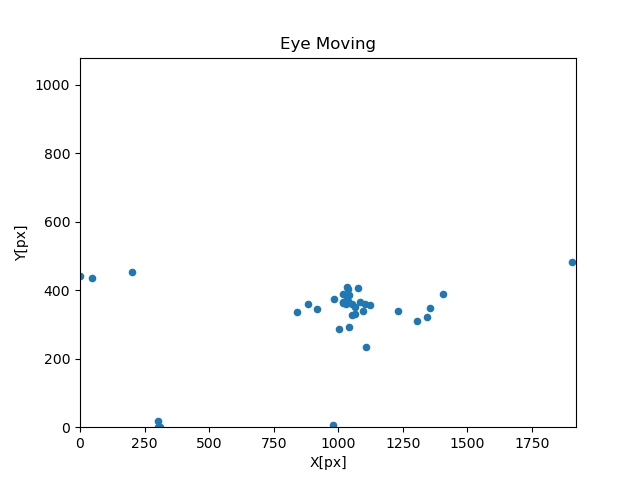
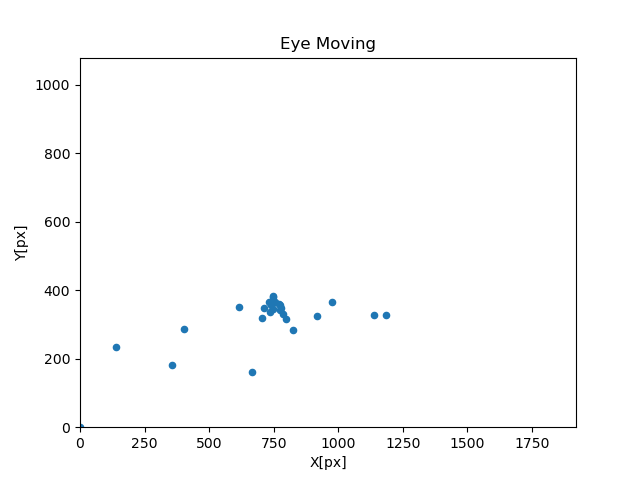
古寺完成版

diff --git a/cgi-bin/feedback.py b/cgi-bin/feedback.py
@@ -1,10 +1,13 @@
 import pandas as pd
 import matplotlib as mpl
 import matplotlib.pyplot as plt
+import sys
+import io
+sys.stdout = io.TextIOWrapper(sys.stdout.buffer,encoding = 'utf-8')
 
 # CSVファイルの読込
-log = pd.read_csv("data/kodera-log1.csv", sep=",") # 古寺 1回目
-#log = pd.read_csv("data/kodera-log2.csv", sep=",") # 古寺 2回目
+#log = pd.read_csv("data/kodera-log1.csv", sep=",") # 古寺 1回目
+log = pd.read_csv("data/kodera-log2.csv", sep=",") # 古寺 2回目
 #log = pd.read_csv("data/imai-log1.csv", sep=",")  # 今井 1回目
 #log = pd.read_csv("data/imai-log2.csv", sep=",") # 今井 2回目
 
@@ -13,7 +16,7 @@ pd.set_option("display.max_rows", None)
 
 # 視線データと速度データの抽出
 def getData(start_x, end_x):
-    place = log[(log.x >= start_x) &(log.x <= end_x)]
+    place = log[(log.x >= start_x) & (log.x <= end_x)]
     eye_data = place.loc[:, ["focus_x", "focus_y"]]
     speed_data = place.loc[:, ["x", "speed"]]
     focus_data = place.loc[:, ["x", "focus"]]
@@ -44,8 +47,17 @@ def makeSpeedGraph(speed_data, file_name):
     plt.savefig("fig/" + file_name)
     plt.close("all")
 
+eye1 = 0
+eye2 = 0
+s1 = 0
+s2 = 0
+s3 = 0
+sum = 0
 # 統計量の表示
-def showStat(eye_data, speed_data):
+def showStat1(eye_data, speed_data):
+    global eye1
+    global s1
+    global sum
 
     # 視線統計量
     eye_mean = eye_data.mean()
@@ -61,6 +73,19 @@ def showStat(eye_data, speed_data):
     print(f"<tr><th>最大値<th> <td>X:{round(eye_max[0], 2)}[px] Y:{round(eye_max[1], 2)}[px]</td></tr>")
     print(f"<tr><th>最小値<th> <td>X:{round(eye_min[0], 2)}[px] Y:{round(eye_min[1], 2)}[px]</td></tr>")
     print("</table>")
+    print("<h4>評価 コメント</h4>")
+    if eye_max[0] >= 1420 and eye_min[0] <= 500 :   #左右を確認した
+        eye1 = 8
+        print("左右確認はよくできていました。")
+    elif eye_max[0] >= 1420 or eye_min[0] <= 500:   #左右どちらかを確認した
+        eye1 = 5
+        print("もう少し左右を確認しましょう。")
+    else:                                           #左右どちらも確認していない
+        eye1 = 0
+        print("もっと左右を確認しましょう。")
+
+
+    sum = sum + eye1
 
     # 速度統計量
     speed_mean = speed_data.mean()[1]
@@ -75,11 +100,107 @@ def showStat(eye_data, speed_data):
     print(f"<tr><th>最大値<th> <td>{round(speed_max, 2)}[km/h]</td></tr>")
     print(f"<tr><th>最小値<th> <td>{round(speed_min, 2)}[km/h]</td></tr>")
     print("</table>")
-
     print("</div>")
+    print("<h4>評価 コメント</h4>")
+    if speed_mean <= 20:
+        s1 = 8
+        print("徐行ができていました。")
+    elif speed_mean <= 30:
+        s1 = 5
+        print("もう少し速度を落としましょう。")
+    else:
+        s1 = 0
+        print("もっと速度を落としましょう。")
+
+    sum = sum + s1
+
+def showStat2(speed_data):
+    global s2
+    global sum
+    # 速度統計量
+    speed_mean = speed_data.mean()[1]
+    speed_std = speed_data.std()[1]
+    speed_max = speed_data.max()[1]
+    speed_min = speed_data.min()[1]
+
+    print("<h4>速度 統計量</h4>")
+    print("<table border='1' style='border-collapse: collapse'>")
+    print(f"<tr><th>平均<th> <td>{round(speed_mean, 2)}[km/h]</td></tr>")
+    print(f"<tr><th>標準偏差<th> <td>{round(speed_std, 2)}[km/h]</td></tr>")
+    print(f"<tr><th>最大値<th> <td>{round(speed_max, 2)}[km/h]</td></tr>")
+    print(f"<tr><th>最小値<th> <td>{round(speed_min, 2)}[km/h]</td></tr>")
+    print("</table>")
+    print("</div>")
+    print("<h4>評価 コメント</h4>")
+    if speed_mean <= 20:
+        s2 = 8
+        print("よくできていました。")
+    elif speed_mean <= 30:
+        s2 = 5
+        print("もう少し速度を落としましょう。")
+    else:
+        s2 = 0
+        print("もっと速度を落としましょう。")
+
+    sum = sum + s2
+
+def showStat3(eye_data, speed_data):
+    global eye2
+    global s3
+    global sum
+    # 視線統計量
+    eye_mean = eye_data.mean()
+    eye_std = eye_data.std()
+    eye_max = eye_data.max()
+    eye_min = eye_data.min()
+
+    print("<div>")
+    print("<h4>視線 統計量</h4>")
+    print("<table border='1' style='border-collapse: collapse'>")
+    print(f"<tr><th>平均<th> <td>X:{round(eye_mean[0], 2)}[px] Y:{round(eye_mean[1], 2)}[px]</td></tr>")
+    print(f"<tr><th>標準偏差<th> <td>X:{round(eye_std[0], 2)}[px] Y:{round(eye_std[1], 2)}[px]</td></tr>")
+    print(f"<tr><th>最大値<th> <td>X:{round(eye_max[0], 2)}[px] Y:{round(eye_max[1], 2)}[px]</td></tr>")
+    print(f"<tr><th>最小値<th> <td>X:{round(eye_min[0], 2)}[px] Y:{round(eye_min[1], 2)}[px]</td></tr>")
+    print("</table>")
+    print("<h4>評価 コメント</h4>")
+    if eye_max[0] >= 1420 and eye_min[0] <= 500 :   #左右を確認した
+        eye2 = 8
+        print("よくできていました。")
+    elif eye_max[0] >= 1420 and eye_min[0] <= 500 : #左右どちらかを確認した
+        eye2 = 5
+        print("もう少し左右を確認しましょう。")
+    else:                                           #左右を確認していない
+        eye2 = 0
+        print("もっと左右を確認しましょう。")
+
+    sum = sum + eye2
+
+    # 速度統計量
+    speed_mean = speed_data.mean()[1]
+    speed_std = speed_data.std()[1]
+    speed_max = speed_data.max()[1]
+    speed_min = speed_data.min()[1]
+
+    print("<h4>速度 統計量</h4>")
+    print("<table border='1' style='border-collapse: collapse'>")
+    print(f"<tr><th>平均<th> <td>{round(speed_mean, 2)}[km/h]</td></tr>")
+    print(f"<tr><th>標準偏差<th> <td>{round(speed_std, 2)}[km/h]</td></tr>")
+    print(f"<tr><th>最大値<th> <td>{round(speed_max, 2)}[km/h]</td></tr>")
+    print(f"<tr><th>最小値<th> <td>{round(speed_min, 2)}[km/h]</td></tr>")
+    print("</table>")
+    print("</div>")
+    print("<h4>評価 コメント</h4>")
+    if speed_min == 0:
+        s3 = 10
+        print("一時停止が出来ていました。")
+    else:
+        s3 = 0
+        print("一時停止が出来ていませんでした。")
+
+    sum = sum + s3
 
 # グラフの描画
-def plotGraph(file_name1, file_name2):
+def plotGraph1(file_name1, file_name2):
     print("<div>")
     print("<table>")
     print("<tr>")
@@ -87,6 +208,9 @@ def plotGraph(file_name1, file_name2):
     print(f"<td><img src='../fig/{file_name2}'></td>")
     print("</tr>")
     print("</table>")
+
+def plotGraph2(file_name1):
+    print(f"<img src='../fig/{file_name1}'>")
 
 print ("Content-type:text/html\n\n")
 print("<!DOCTYPE html>")
@@ -107,25 +231,85 @@ distance = 50
 eye_data, speed_data, focus_data = getData(target_x - distance, target_x + distance)
 makeEyeGraph(eye_data, "eye-1.png")
 makeSpeedGraph(speed_data, "speed-1.png")
-showStat(eye_data, speed_data)
-plotGraph("eye-1.png", "speed-1.png")
+showStat1(eye_data, speed_data)
+plotGraph1("eye-1.png", "speed-1.png")
 
 #print(eye_data.to_html())
 #print(focus_data.to_html())
 
-# 第２交差点
-print("<h2>第２交差点</h2>")
+# トラック
+print("<h2>トラック</h2>")
 target_x = 7160
 distance = 50
 eye_data, speed_data, focus_data = getData(target_x - distance, target_x + distance)
-makeEyeGraph(eye_data, "eye-2.png")
 makeSpeedGraph(speed_data, "speed-2.png")
-showStat(eye_data, speed_data)
-plotGraph("eye-2.png", "speed-2.png")
+showStat2(speed_data)
+plotGraph2("speed-2.png")
 
+# 第２交差点
+print("<h2>第2交差点</h2>")
+target_x = 7300
+distance = 50
+eye_data, speed_data, focus_data = getData(target_x - distance, target_x + distance)
+makeEyeGraph(eye_data, "eye-3.png")
+makeSpeedGraph(speed_data, "speed-3.png")
+showStat1(eye_data, speed_data)
+plotGraph1("eye-3.png", "speed-3.png")
+
+# 第3交差点
+print("<h2>第3交差点(停止1)</h2>")
+target_x = 7430
+distance = 50
+eye_data, speed_data, focus_data = getData(target_x - distance, target_x + distance)
+makeEyeGraph(eye_data, "eye-4.png")
+makeSpeedGraph(speed_data, "speed-4.png")
+showStat3(eye_data, speed_data)
+plotGraph1("eye-4.png", "speed-4.png")
+
+# 第4交差点
+print("<h2>第4交差点</h2>")
+target_x = 7580
+distance = 50
+eye_data, speed_data, focus_data = getData(target_x - distance, target_x + distance)
+makeEyeGraph(eye_data, "eye-5.png")
+makeSpeedGraph(speed_data, "speed-5.png")
+showStat1(eye_data, speed_data)
+plotGraph1("eye-5.png", "speed-5.png")
+
+# 歩行者
+print("<h2>歩行者</h2>")
+target_x = 7710
+distance = 50
+eye_data, speed_data, focus_data = getData(target_x - distance, target_x + distance)
+makeSpeedGraph(speed_data, "speed-6.png")
+showStat2(speed_data)
+plotGraph2("speed-6.png")
+
+# 第5交差点
+print("<h2>第5交差点(停止2)</h2>")
+target_x = 7865
+distance = 50
+eye_data, speed_data, focus_data = getData(target_x - distance, target_x + distance)
+makeEyeGraph(eye_data, "eye-7.png")
+makeSpeedGraph(speed_data, "speed-7.png")
+showStat3(eye_data, speed_data)
+plotGraph1("eye-7.png", "speed-7.png")
+
+print("<h1>総合評価</h1>")
+print("<h3>点数</h3>")
+print("<h4>")
+print(sum)
+print("</h4>")
+print("<p>(※100点満点)</p>")
+print("<h3>評価</h3>")
+if sum >= 90:
+    print("<h4>あなたの運転評価はA評価です。</h4>")
+elif sum >= 70:
+    print("<h4>あなたの運転評価はB評価です。</h4>")
+else:
+    print("<h4>あなたの運転評価はC評価です。</h4>")
 #print(eye_data.to_html())
 #print(focus_data.to_html())
-
 # 全データの表示
 #print(log.to_html())
 
